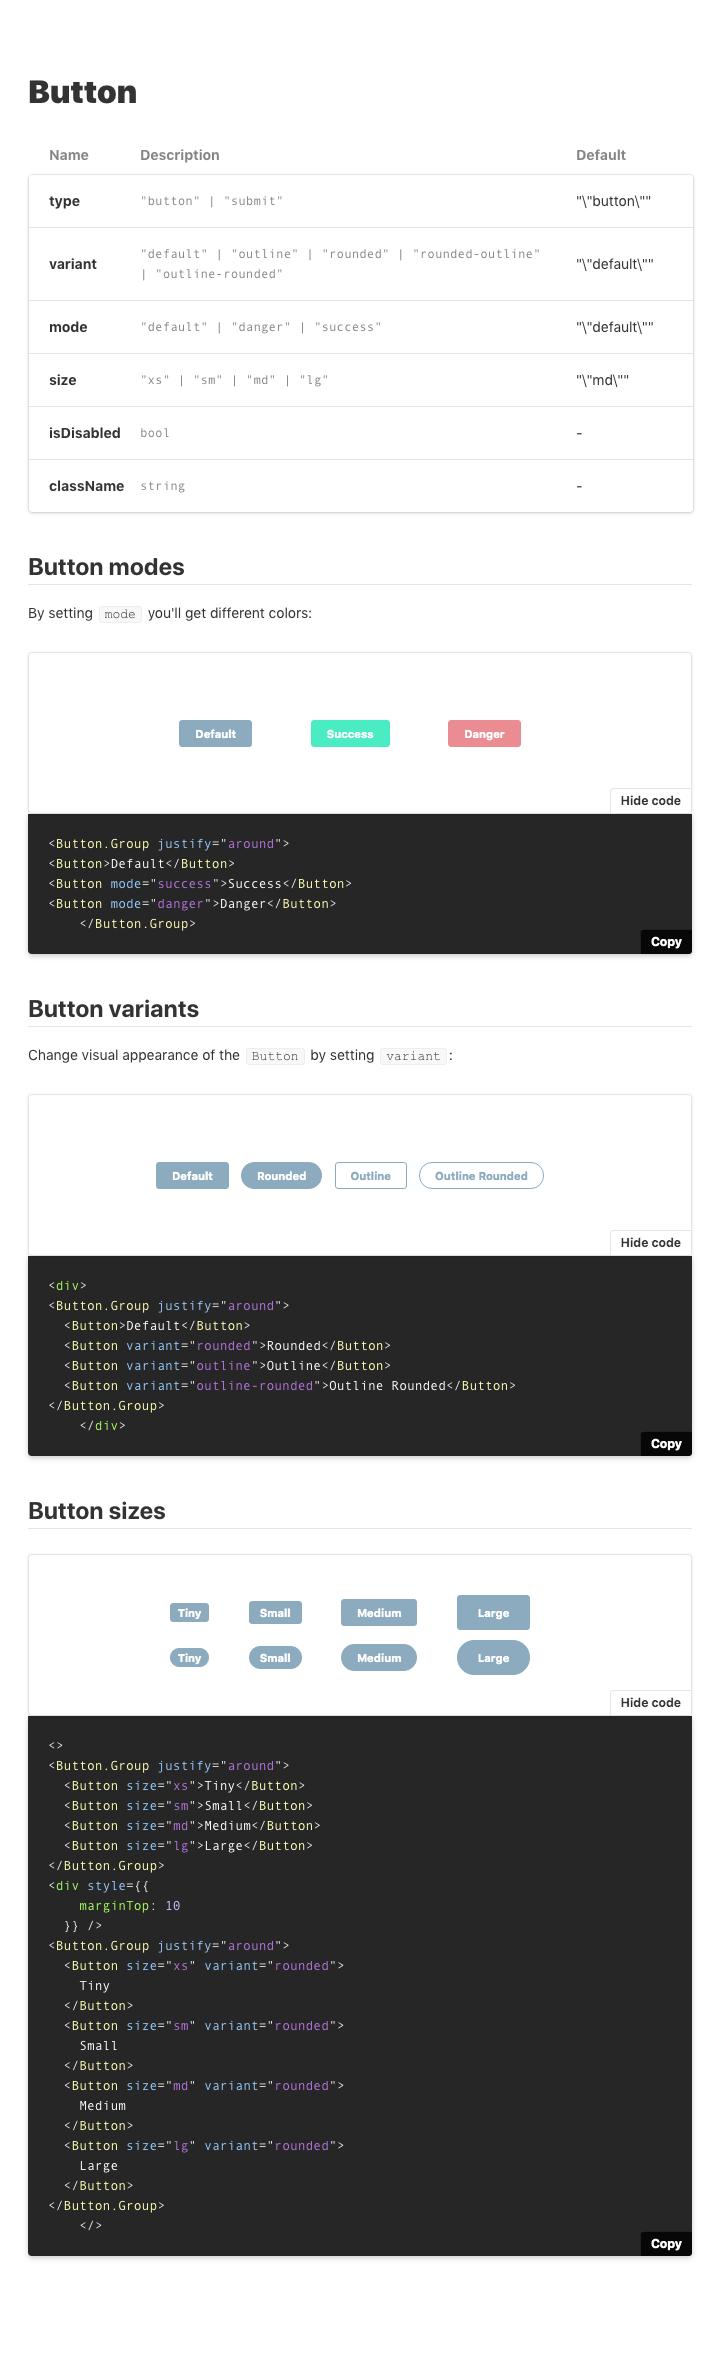
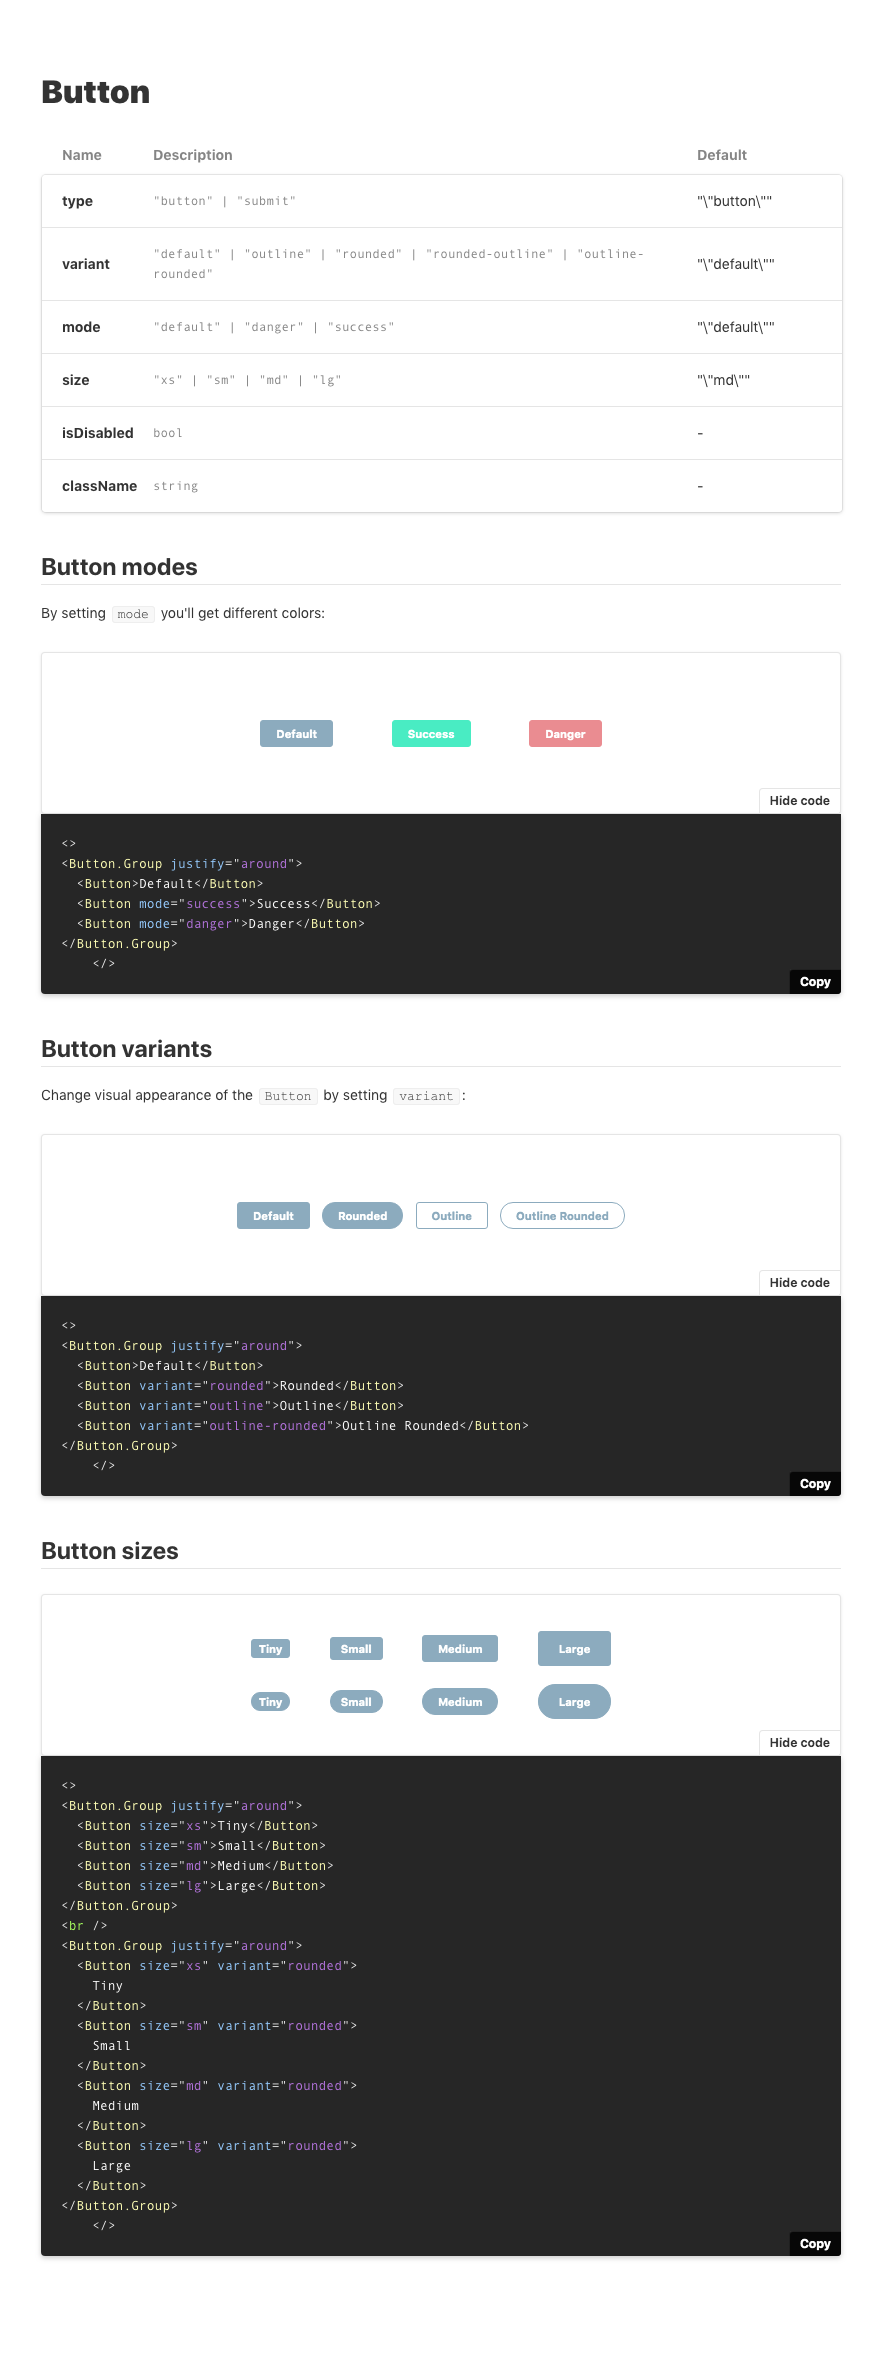
write to timestamp file on stories screenshot

diff --git a/react/scripts/stories-screenshot/index.js b/react/scripts/stories-screenshot/index.js
@@ -1,7 +1,6 @@
 const path = require("path");
 const fs = require("fs");
 const puppeteer = require("puppeteer");
-
 const findSync = require("../../../node/utils/findSync");
 const getModifiedTimeMsSync = require("../../../node/utils/getModifiedTimeMsSync");
 
@@ -10,47 +9,6 @@ const timestampsData = JSON.parse(fs.readFileSync(timestampsPath, "utf8"));
 const timestampsDiff = {};
 const mdxFiles = findSync("./src", /\.mdx$/);
 const mdxFilesToPrint = [];
-
-mdxFiles.forEach(file => {
-  const mtimeMs = getModifiedTimeMsSync(file);
-  const shouldTakeScreenshot = String(timestampsData[file]) !== String(mtimeMs);
-
-  if (shouldTakeScreenshot) {
-    timestampsDiff[file] = String(mtimeMs);
-    mdxFilesToPrint.push(file);
-  }
-});
-
-async function takeScreenshots() {
-  const browser = await puppeteer.launch();
-  const page = await browser.newPage();
-  await page.setViewport({ width: 720, height: 1000 });
-
-  for (let index = 0; index < mdxFilesToPrint.length; index++) {
-    const file = mdxFilesToPrint[index];
-    const fileContents = fs.readFileSync(file, "utf8");
-    const pagePath = getStoryPagePath(fileContents);
-
-    if (!pagePath) return;
-
-    await page.goto(pagePath);
-    const iframePath = await page.evaluate(getPreviewFrameSrc);
-    await page.goto(iframePath);
-    await page.evaluate(revealStorySrcCode);
-    await page.screenshot({
-      path: file.replace(/\.mdx$/, ".png"),
-      fullPage: true
-    });
-  }
-
-  await browser.close();
-}
-
-takeScreenshots()
-  .then(() => {
-    /* TODO: write to timestamp file */
-  })
-  .catch(err => console.log("ERROR:::", err));
 
 function getPreviewFrameSrc() {
   const el = document.getElementById("storybook-preview-iframe");
@@ -72,3 +30,56 @@ function getStoryPagePath(storyFile) {
     .replace(/^\$pagePath\=/, "")
     .replace(/\"/g, "");
 }
+
+function writeToTimestampFile() {
+  if (!Object.keys(timestampsDiff).length) {
+    console.log("Already up to date :)");
+    return;
+  }
+
+  const result = Object.assign(timestampsData, timestampsDiff);
+  const resultString = JSON.stringify(result, null, 2);
+  const handleError = err => {
+    if (err) throw err;
+  };
+
+  fs.writeFile(timestampsPath, resultString, handleError);
+}
+
+mdxFiles.forEach(file => {
+  const mtimeMs = getModifiedTimeMsSync(file);
+
+  if (String(timestampsData[file]) !== String(mtimeMs)) {
+    timestampsDiff[file] = String(mtimeMs);
+    mdxFilesToPrint.push(file);
+  }
+});
+
+async function gotoStoryPath
+
+async function takeScreenshots() {
+  const browser = await puppeteer.launch();
+  const page = await browser.newPage();
+  await page.setViewport({ width: 882, height: 1000 });
+
+  for (let index = 0; index < mdxFilesToPrint.length; index++) {
+    const file = mdxFilesToPrint[index];
+    const fileContents = fs.readFileSync(file, "utf8");
+    const pagePath = getStoryPagePath(fileContents);
+
+    if (!pagePath) continue;
+
+
+    await page.evaluate(revealStorySrcCode);
+    await page.screenshot({
+      path: file.replace(/\.mdx$/, ".png"),
+      fullPage: true
+    });
+  }
+
+  await browser.close();
+}
+
+takeScreenshots()
+  .then(writeToTimestampFile)
+  .catch(err => console.log("ERROR:::", err));

diff --git a/node/utils/getModifiedTimeMsSync.js b/node/utils/getModifiedTimeMsSync.js
@@ -8,7 +8,7 @@ const fs = require("fs");
  */
 function getModifiedTimeMsSync(filepath) {
   const stats = fs.statSync(filepath);
-  return stats.mtime;
+  return stats.mtimeMs;
 }
 
 module.exports = getModifiedTimeMsSync;
